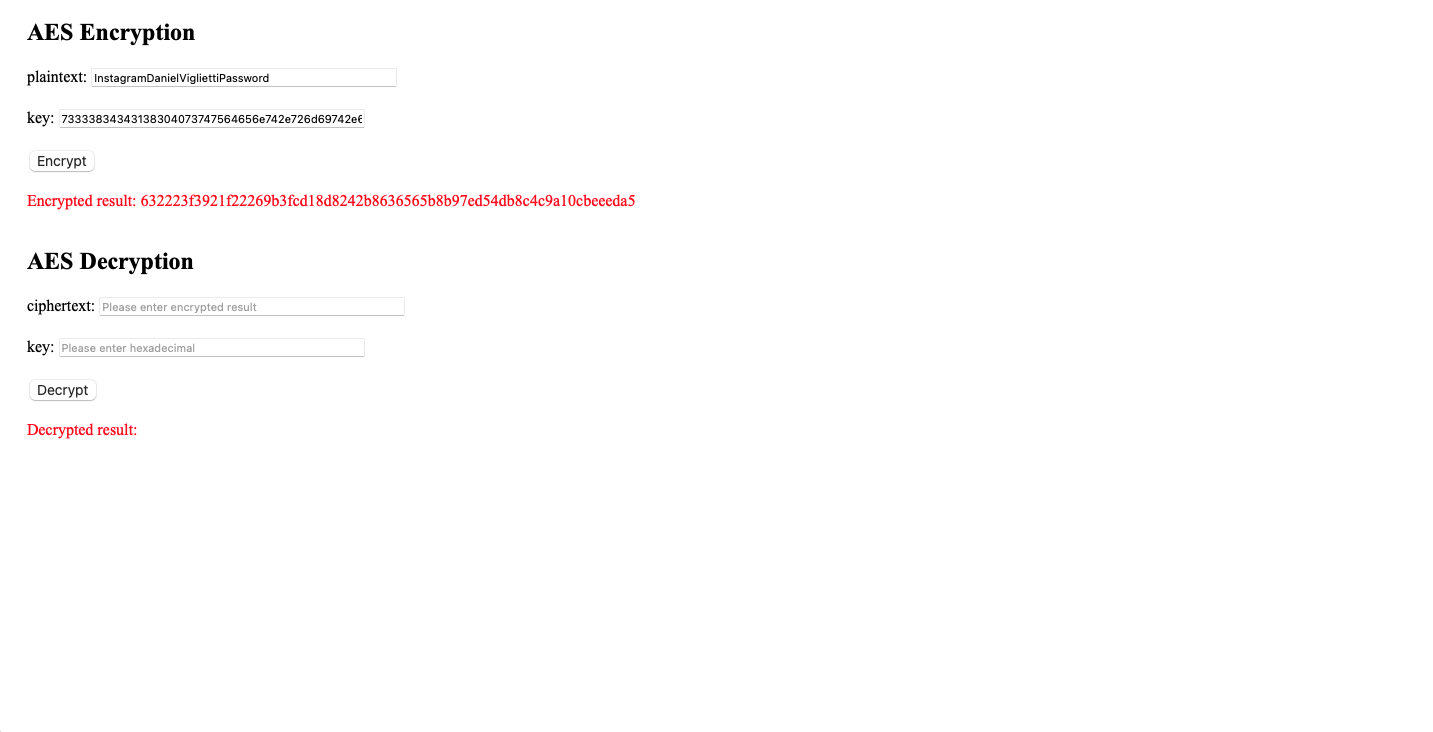
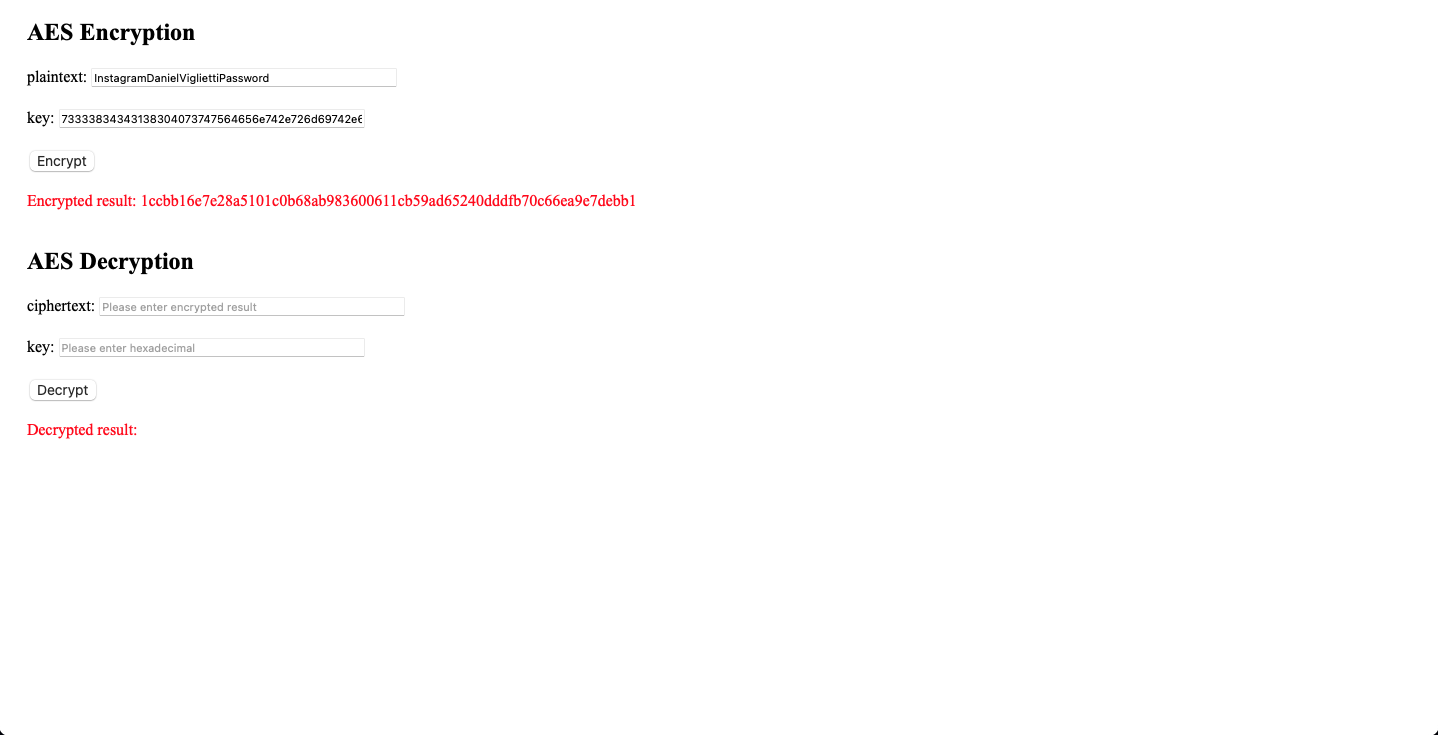
Updated to use CTR Counter

diff --git a/index.html b/index.html
@@ -93,13 +93,14 @@
             alert("Your entered key is "+key.length/2+" bytes!\n\n"+"The length of key must be a multiple of 16 bytes (32 hex digits)!\n\nPlease re-enter the key!");
             return false;
         }
-
-        // Encryption process
         key = aesjs.utils.hex.toBytes(key);
-        var aesEcb = new aesjs.ModeOfOperation.ecb(key);
-        var encryptedBytes = aesEcb.encrypt(textBytes);
+
+        // The counter is optional, and if omitted will begin at 1
+        var aesCtr = new aesjs.ModeOfOperation.ctr(key, new aesjs.Counter(5));
+        var encryptedBytes = aesCtr.encrypt(textBytes);
+
+        // To print or store the binary data, you may convert it to hex
         var encryptedHex = aesjs.utils.hex.fromBytes(encryptedBytes);
-        console.log(encryptedHex);
 
         // Output
         document.getElementById("encOutput").innerText = "Encrypted result: " + encryptedHex;
@@ -127,8 +128,8 @@
         // Decryption process
         key = aesjs.utils.hex.toBytes(key);
         var encryptedBytes = aesjs.utils.hex.toBytes(ciphertext);
-        var aesEcb = new aesjs.ModeOfOperation.ecb(key);
-        var decryptedBytes = aesEcb.decrypt(encryptedBytes);
+        var aesCtr = new aesjs.ModeOfOperation.ctr(key, new aesjs.Counter(5));
+        var decryptedBytes = aesCtr.decrypt(encryptedBytes);
         var decryptedText = aesjs.utils.utf8.fromBytes(decryptedBytes);
         
         // Output

diff --git a/README.md b/README.md
@@ -6,6 +6,8 @@ Author: Daniel Viglietti s3844180
 
 Date: 15/04/2022
 
+Updated on 2/05/2022 to use CTR instead of EBC
+
 JavaScript Web Interface for Cloud AES256 Encryption
 
 Dependencies: https://www.npmjs.com/package/aes-js
